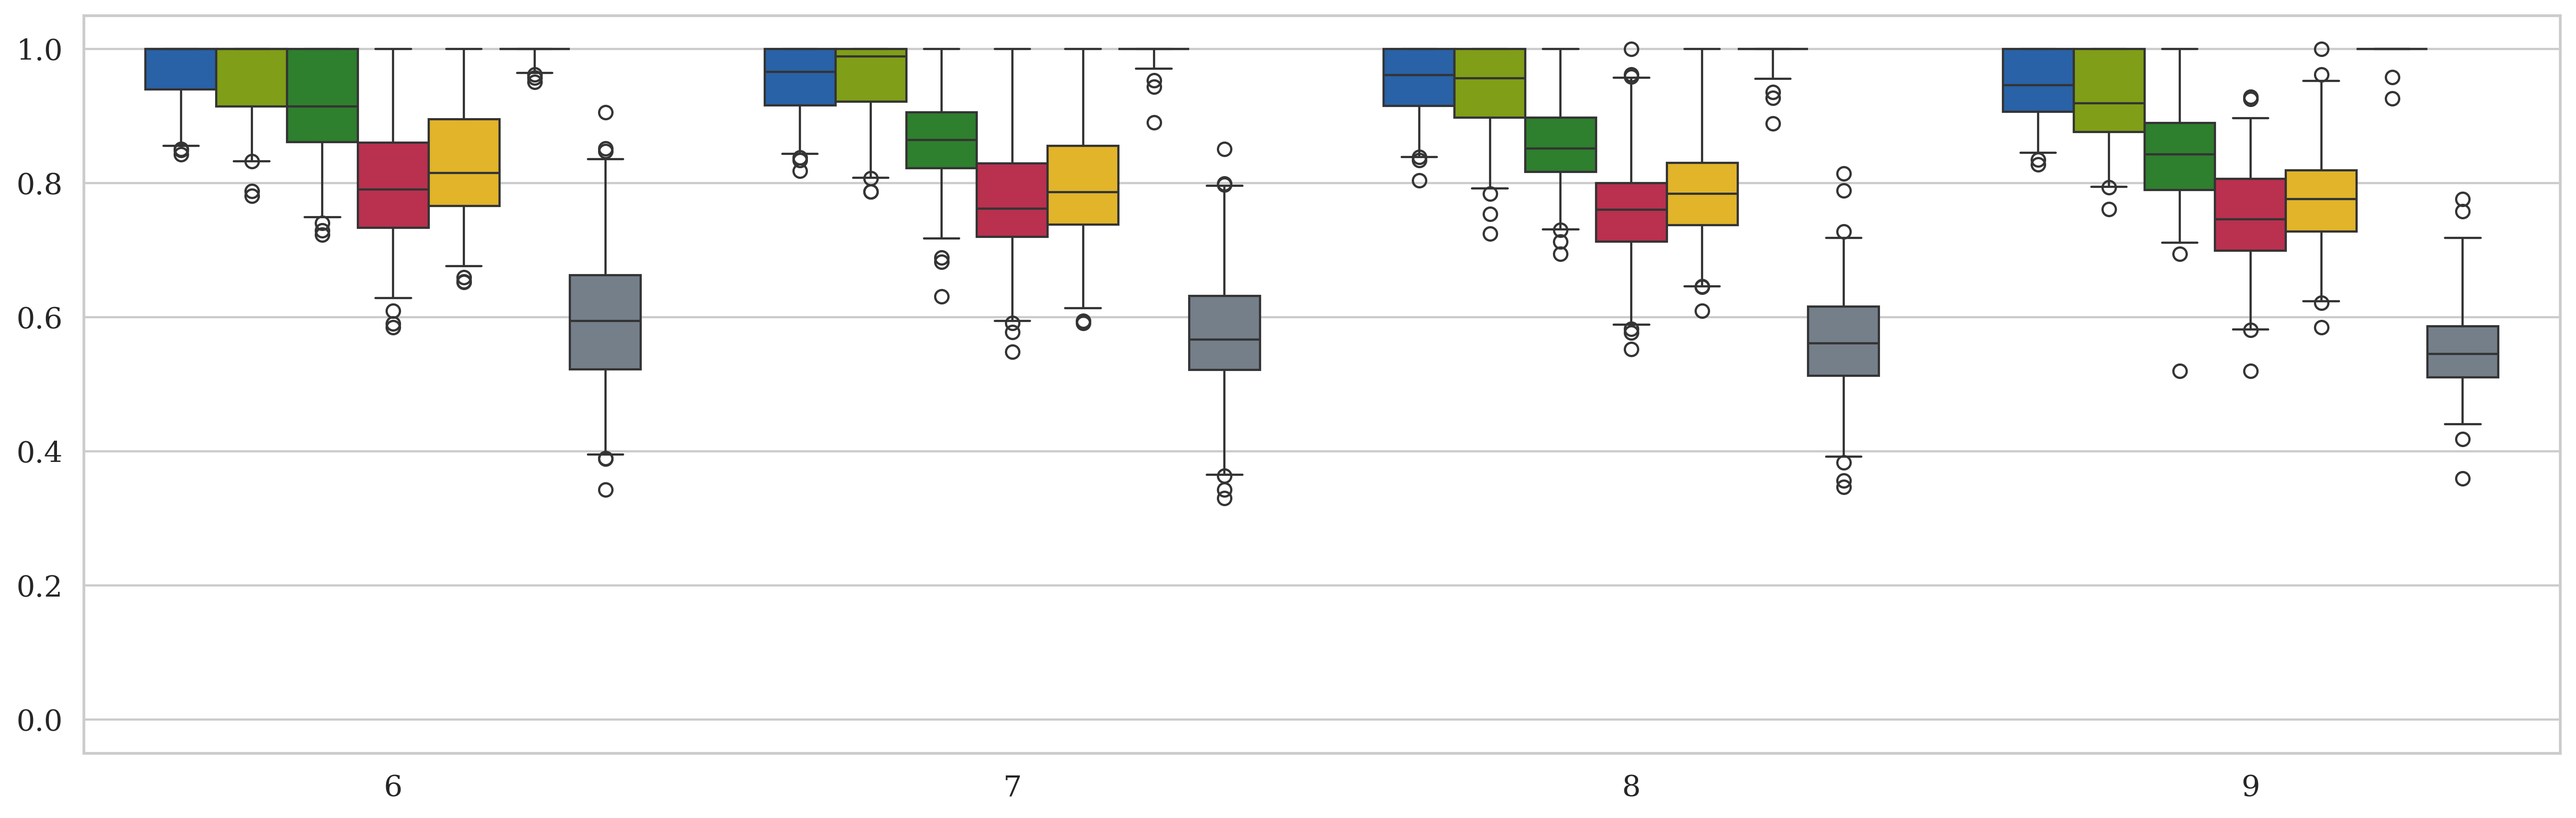
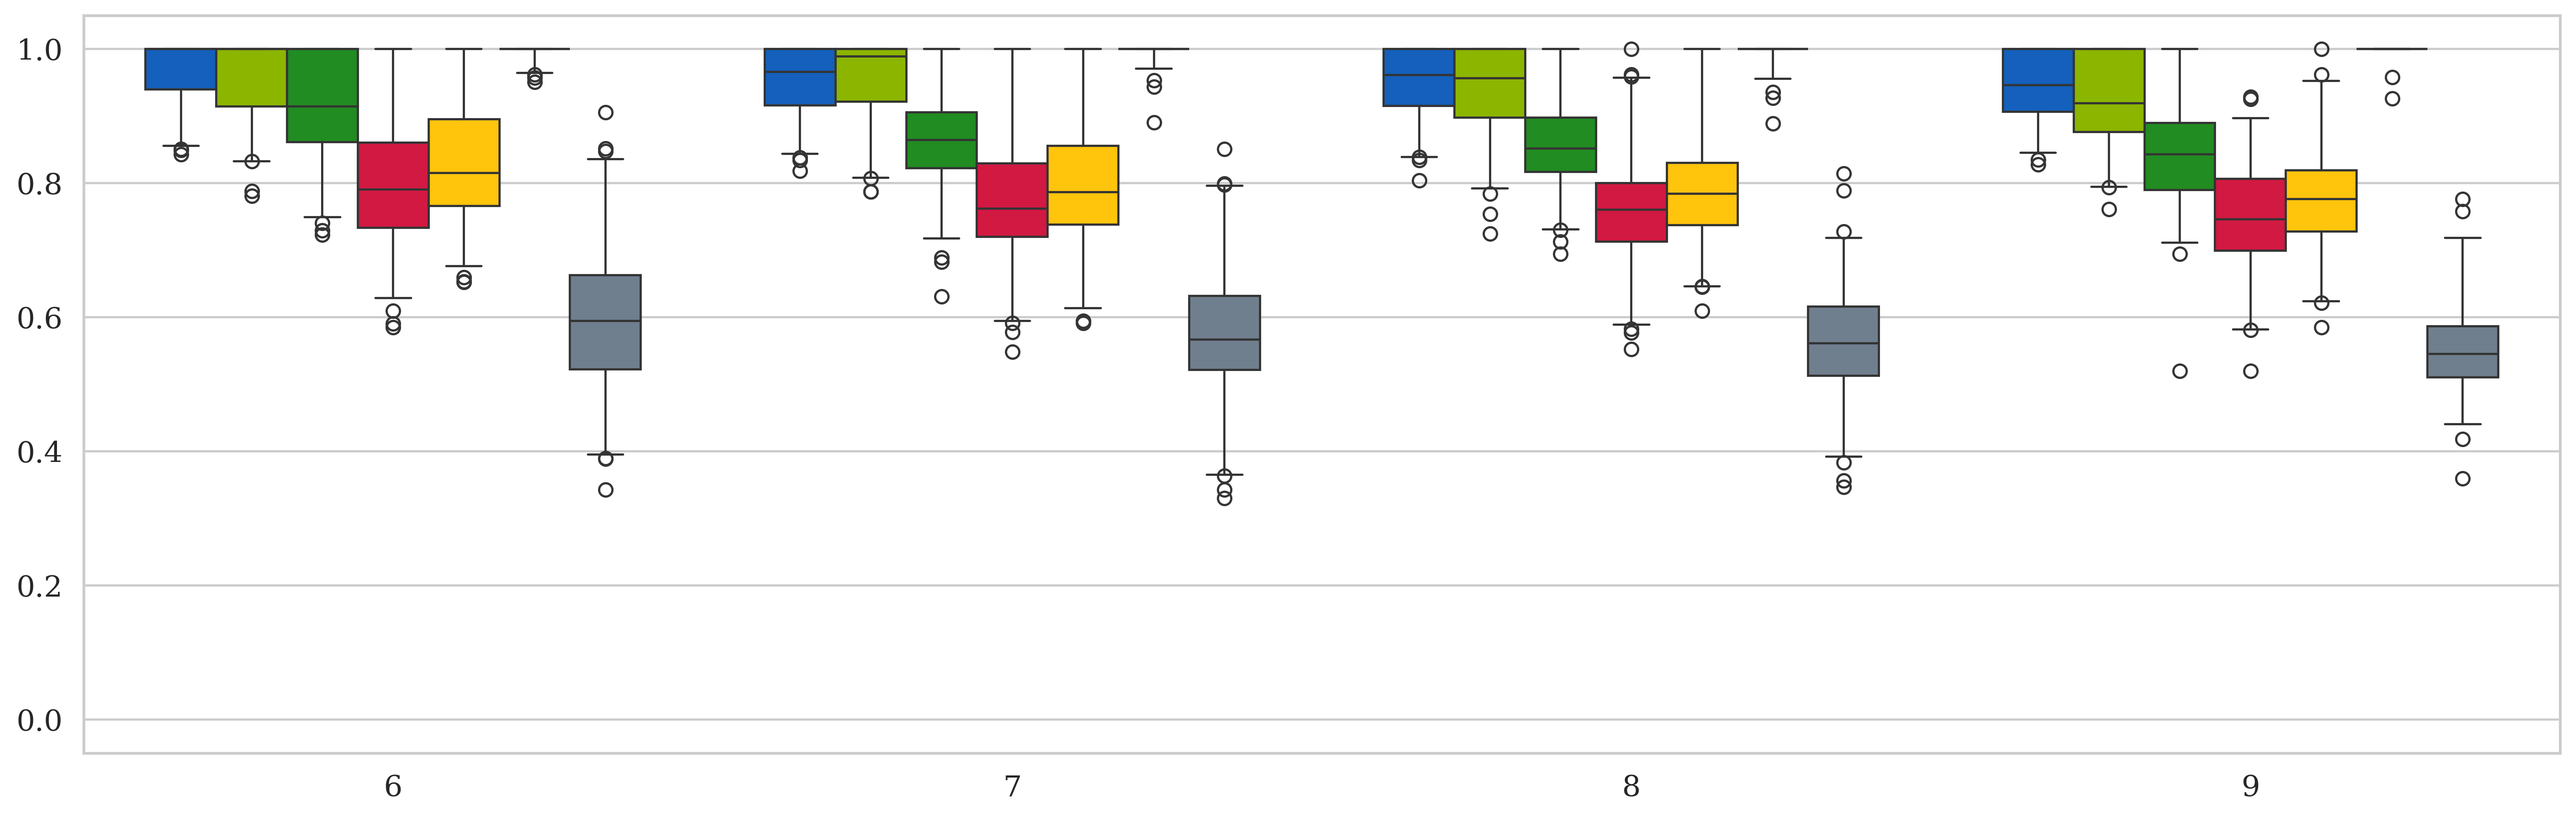
Update boxplot colors

diff --git a/pipelines/scottish/create_scottish_boxplot.py b/pipelines/scottish/create_scottish_boxplot.py
@@ -149,6 +149,7 @@ def build_plot_for_metric_scottish(
         ax=ax,
         legend=legend,
         whis=[1, 99],  # use 1st and 99th percentiles # type: ignore
+        saturation=1,
     )
 
     # ax.set_ylabel(y_label, fontsize=16)
@@ -287,37 +288,37 @@ def main(n_cand_list=list(range(6, 10))):
 
         plt.close()
 
-    # metric, label = metric_label_pairs[0]
-    # _, ax = plt.subplots(1, 1, figsize=(20, 6))
-    # sns.set_theme(style="whitegrid", context="notebook", font="serif", font_scale=1.2)
+    metric, label = metric_label_pairs[0]
+    _, ax = plt.subplots(1, 1, figsize=(20, 6))
+    sns.set_theme(style="whitegrid", context="notebook", font="serif", font_scale=1.2)
 
-    # ordered_outputs = {key: outputs_by_election_type[key] for key in ordered_rules}
-    # ax = build_plot_for_metric_scottish(
-    #     metric,
-    #     ordered_outputs,
-    #     n_cand_list,
-    #     ax,
-    #     y_label=label,
-    #     legend=True,
-    # )
+    ordered_outputs = {key: outputs_by_election_type[key] for key in ordered_rules}
+    ax = build_plot_for_metric_scottish(
+        metric,
+        ordered_outputs,
+        n_cand_list,
+        ax,
+        y_label=label,
+        legend=True,
+    )
 
-    # legend = ax.get_legend()
+    legend = ax.get_legend()
 
-    # handles, labels = ax.get_legend_handles_labels()
-    # new_names = {
-    #     "borda": "Borda",
-    #     "3-approval": "3-Approval",
-    #     "2-approval": "2-Approval",
-    #     "plurality": "Plurality",
-    #     "stv": "STV",
-    #     "ranked-pairs": "Ranked Pairs",
-    #     "random": "Random",
-    # }
-    # labels = [new_names[label] for label in labels]
-    # legend = ax.legend(handles, labels, title="Voting rule", loc=(1.02, 0.5))
+    handles, labels = ax.get_legend_handles_labels()
+    new_names = {
+        "borda": "Borda",
+        "3-approval": "3-Approval",
+        "2-approval": "2-Approval",
+        "plurality": "Plurality",
+        "stv": "STV",
+        "ranked-pairs": "Ranked Pairs",
+        "random": "Random",
+    }
+    labels = [new_names[label] for label in labels]
+    legend = ax.legend(handles, labels, title="Voting rule", loc=(1.02, 0.5))
 
-    # output_plot_name = f"{output_dir}/scottish_boxplot_legend.png"
-    # save_legend_only(legend, output_plot_name, pad=1.1, dpi=300, transparent=False)
+    output_plot_name = f"{output_dir}/scottish_boxplot_legend.png"
+    save_legend_only(legend, output_plot_name, pad=1.1, dpi=300, transparent=False)
 
 
 if __name__ == "__main__":
